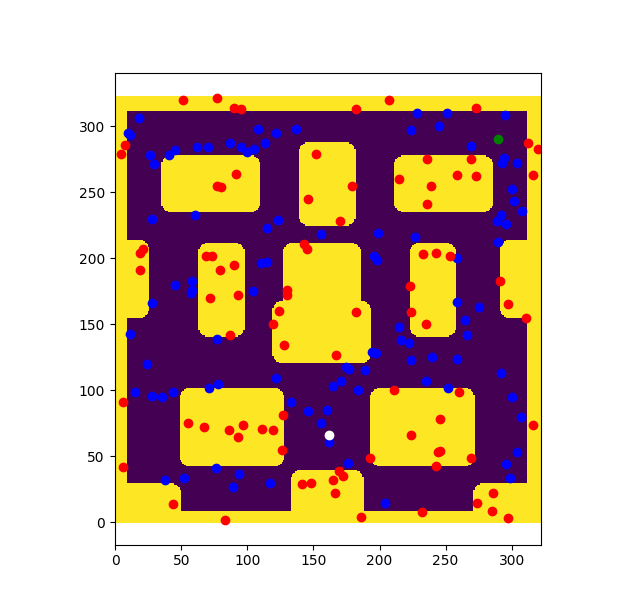
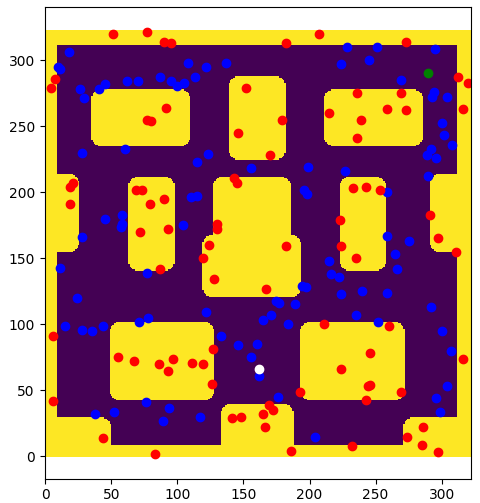
message

diff --git a/docs/source/coursework2.rst b/docs/source/coursework2.rst
@@ -656,12 +656,28 @@ The random points are generated by the code below:
 [final, commented code showing random generation of points]
 -----------------------------------------------------------
 
+They are then iterated through and marked as a "1" in the rejection array by the code below:
 
+.. code-block:: python
+   :linenos:
+   
+   i=0
+   for point in pixel_points:
+      if self.pixel_map[int(point[1]),int(point[0])] == 1:
+         print("rejected")
+         rejected[i] = 1
+      i += 1
+
+[Update this code with final, commented version]
+------------------------------------------------
+
+With 100 points, here is how the distribution turned out, which can be visually confirmed to have marked rejected points correctly.
 
 .. image:: img/prm_1m.png
-   :width: 500
+   :width: 250
    :alt: prm_1m
 
+*Randomly distributed points for PRM marked as rejected or not*
 
 ----------------------------------
 Task D ii: Harris Corner Detection
@@ -727,7 +743,7 @@ As a result of the observation that for a map consisting of convex polygons (or 
 Task E i: Creating the Graph, Tuning Distances for Creating Edges
 -----------------------------------------------------------------
 
-This task initialises the Denavit-Hartenberg, D-H, table.
+With the generated points completed in the previous task, the next step required is to create edges between neighbouring nodes. The task requires tuning of 2 parameters, ``mindist`` and ``maxdist’’. These two variables define the minimum distance required before connecting neighbouring nodes, and the maximum allowable distance that nodes can connect to respectively. The reason these are critical to creating a graph is for the following.
 
 ----------------------------------------------------------
 Task E ii: Creating the Graph, Tuning Edge Collision Check
